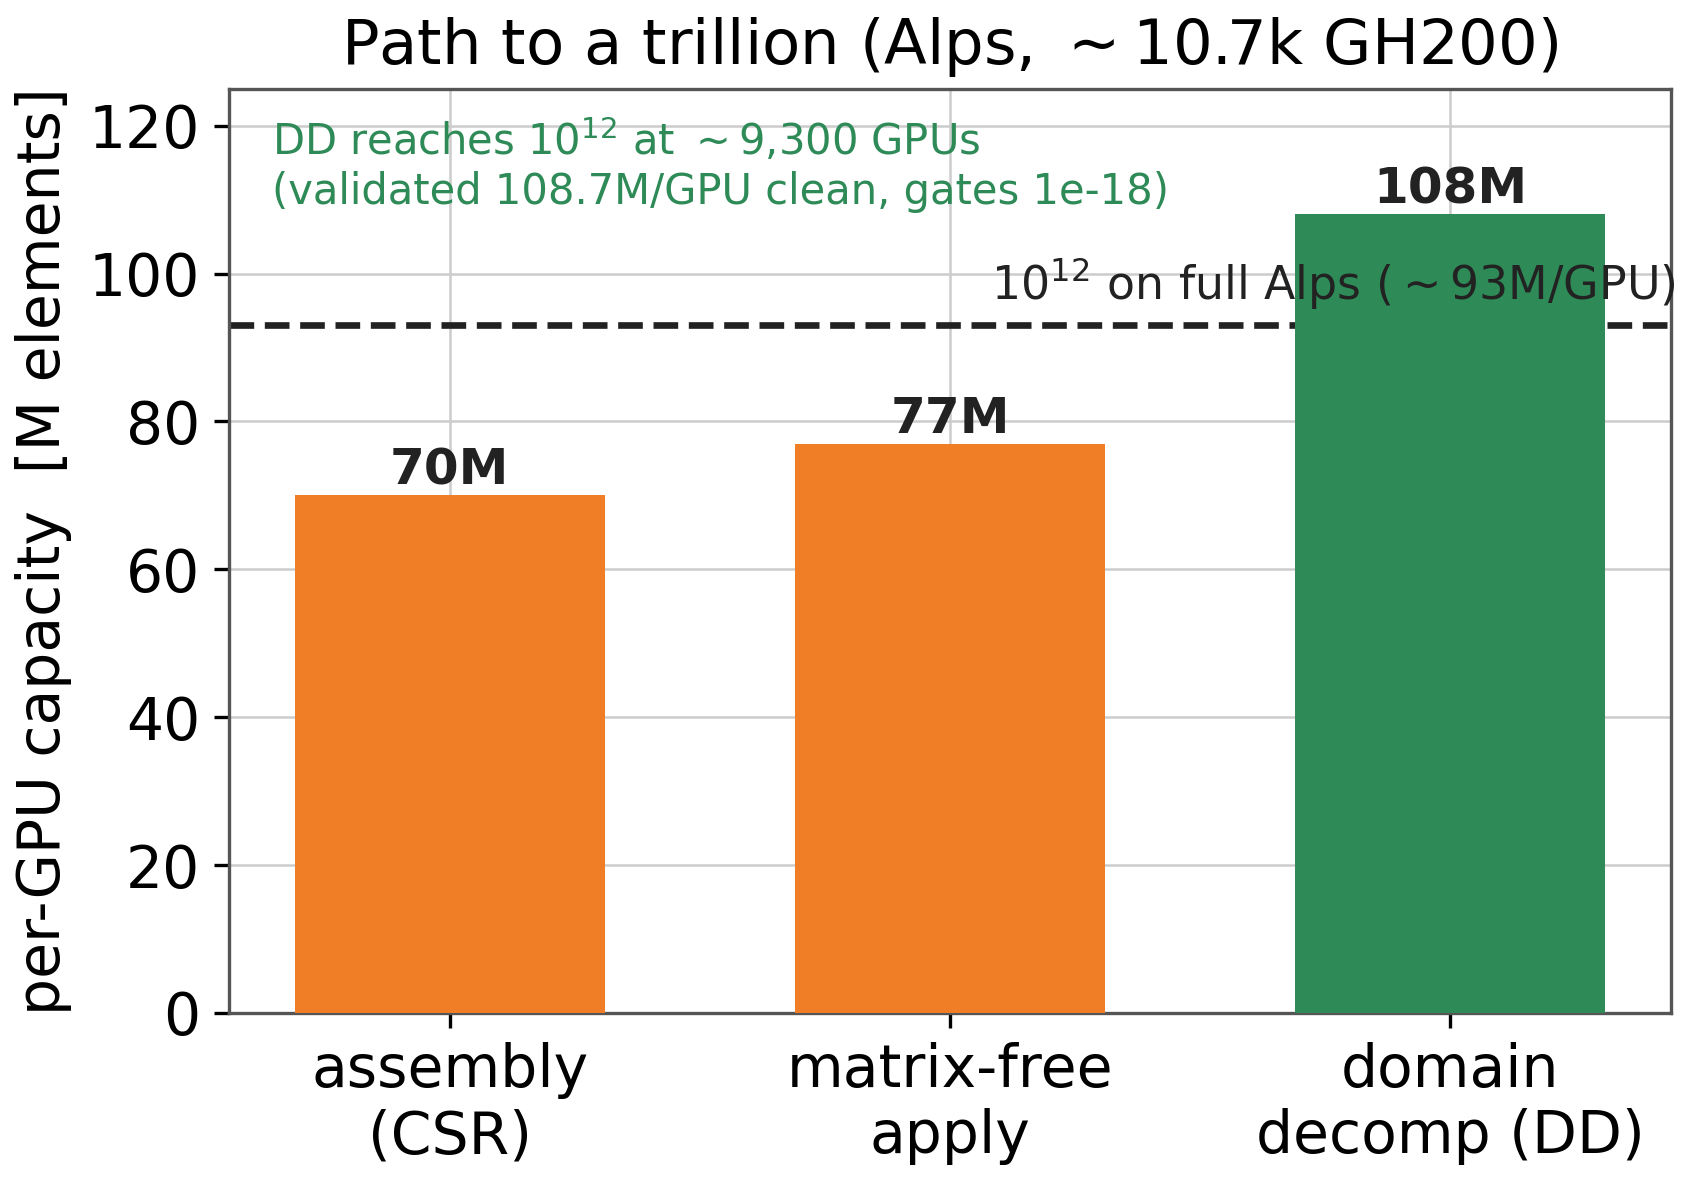
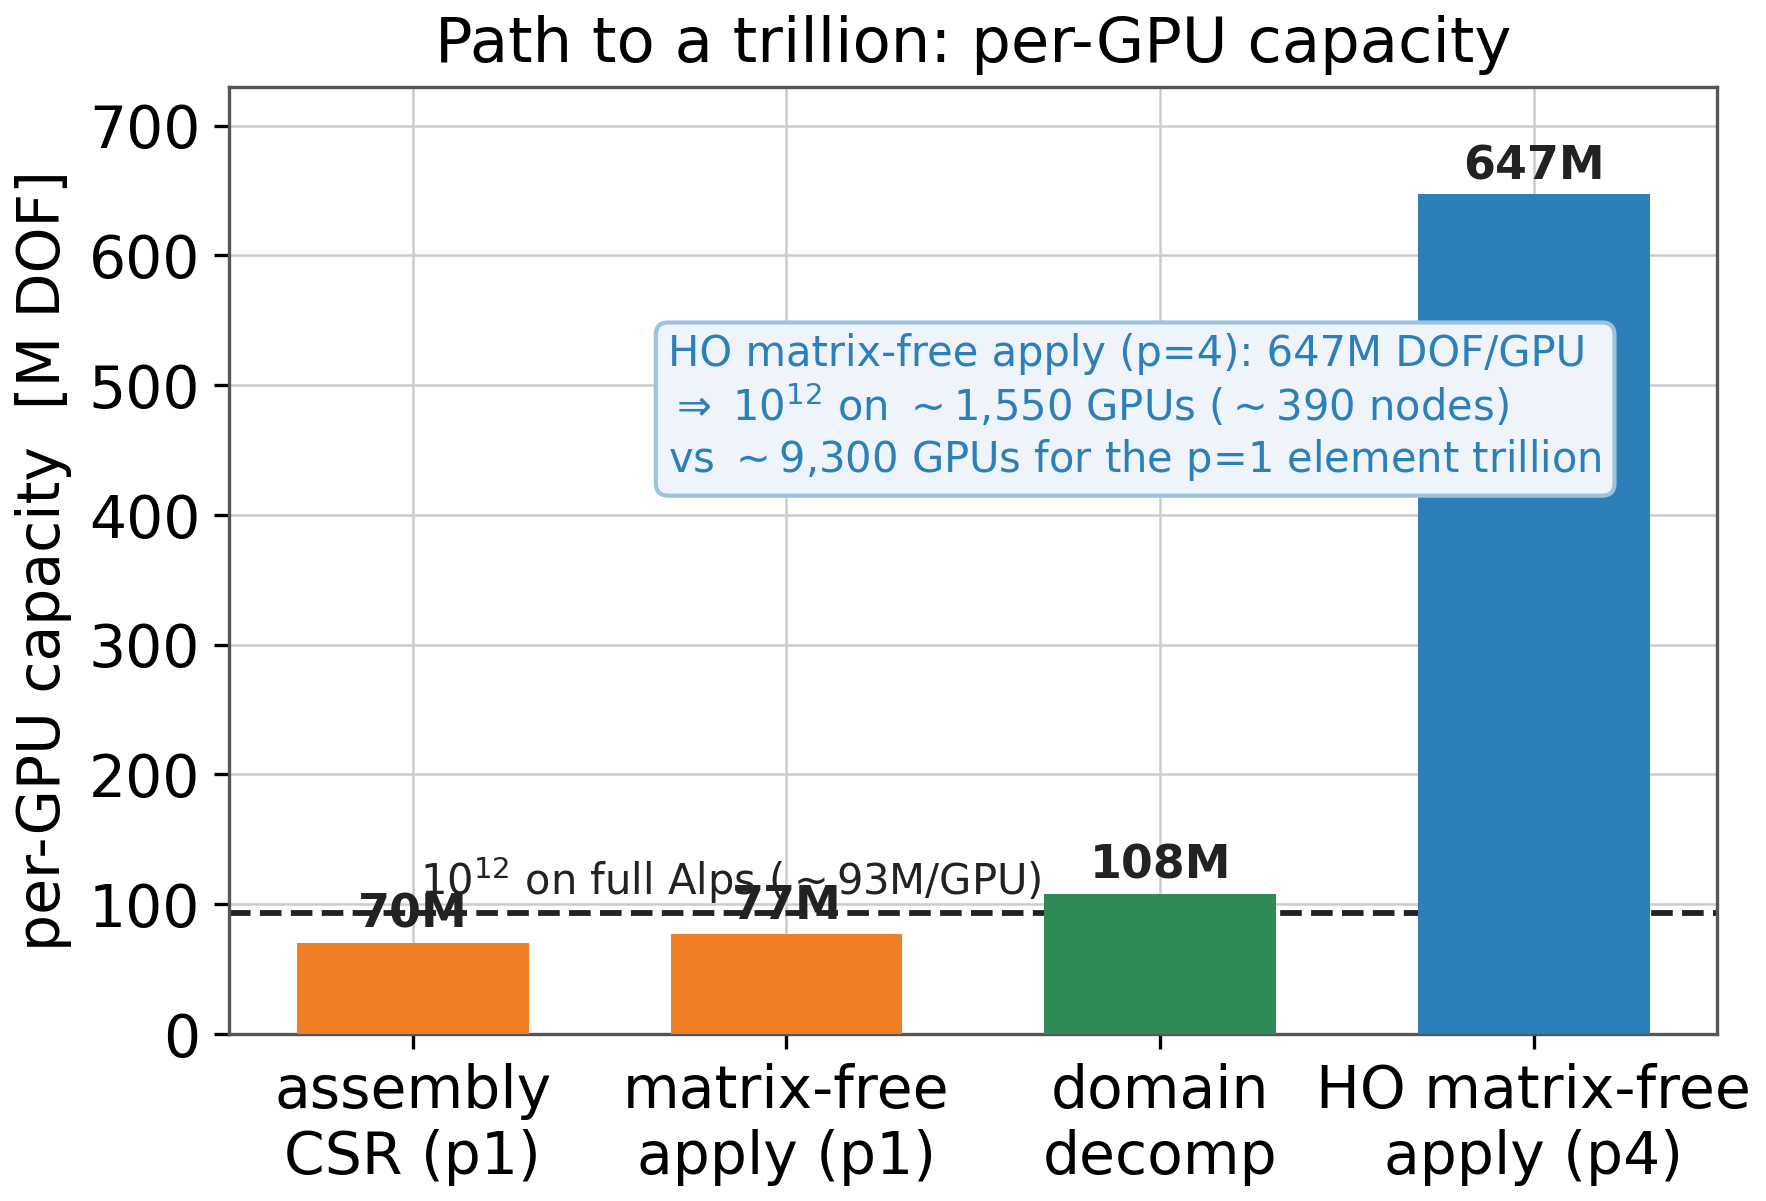
HO per-GPU ceiling 647M DOF/GPU (p=4, GH200) -> trillion HO DOF on ~1,550 GPUs (~390 nodes); fig_trillion + doc

diff --git a/docs/figures/make_matfree_figs.py b/docs/figures/make_matfree_figs.py
@@ -113,23 +113,25 @@ ax.set_title("Comm self-resolves with per-GPU size")
 ax.set_ylim(0, 70); ax.legend(frameon=False, loc="lower left")
 save(fig, "fig_comm_pergpu")
 
-# --- 6. path to a trillion: per-GPU capacity by mode vs the 1e12-on-Alps line ---
-modes  = ["assembly\n(CSR)", "matrix-free\napply", "domain\ndecomp (DD)"]
-ceil_M = [70, 77, 108]            # validated per-GPU ceilings (M elements/GPU)
+# --- 6. path to a trillion: per-GPU capacity by mode (incl. high-order matrix-free) ---
+modes  = ["assembly\nCSR (p1)", "matrix-free\napply (p1)", "domain\ndecomp", "HO matrix-free\napply (p4)"]
+ceil_M = [70, 77, 108, 647]       # validated per-GPU ceilings (M DOF/GPU; at p1 DOF~elements)
+colors = [ORANGE, ORANGE, GREEN, BLUE]
 alps_gpus = 10752                 # Alps GH200
-need_M = 1e12 / alps_gpus / 1e6   # per-GPU needed for 1e12 on full Alps (~93M)
-fig, ax = plt.subplots(figsize=(6.2, 4.0))
-bars = ax.bar(modes, ceil_M, color=[ORANGE, ORANGE, GREEN], width=0.62, zorder=3)
-ax.axhline(need_M, color=DARK, ls="--", lw=1.6, zorder=2)
-ax.text(2.45, need_M + 2, "10$^{12}$ on full Alps ($\\sim$%.0fM/GPU)" % need_M,
-        ha="right", va="bottom", color=DARK, fontsize=11)
+need_M = 1e12 / alps_gpus / 1e6   # ~93M DOF/GPU to fit 1e12 on full Alps
+fig, ax = plt.subplots(figsize=(6.4, 4.1))
+bars = ax.bar(modes, ceil_M, color=colors, width=0.62, zorder=3)
+ax.axhline(need_M, color=DARK, ls="--", lw=1.4, zorder=2)
+ax.text(0.02, need_M + 14, "10$^{12}$ on full Alps ($\\sim$93M/GPU)", color=DARK, fontsize=10)
 for b, v in zip(bars, ceil_M):
-    ax.text(b.get_x() + b.get_width()/2, v + 1.5, f"{v}M", ha="center",
-            color=DARK, fontsize=12, fontweight="bold")
-ax.set_ylabel("per-GPU capacity  [M elements]"); ax.set_ylim(0, 125)
-ax.set_title("Path to a trillion (Alps, $\\sim$10.7k GH200)")
-ax.text(0.03, 0.97, "DD reaches 10$^{12}$ at $\\sim$9,300 GPUs\n(validated 108.7M/GPU clean, gates 1e-18)",
-        transform=ax.transAxes, va="top", fontsize=10, color=GREEN)
+    ax.text(b.get_x() + b.get_width()/2, v + 12, f"{v}M", ha="center",
+            color=DARK, fontsize=11, fontweight="bold")
+ax.set_ylabel("per-GPU capacity  [M DOF]"); ax.set_ylim(0, 730)
+ax.set_title("Path to a trillion: per-GPU capacity")
+ax.text(0.295, 0.74,
+        "HO matrix-free apply (p=4): 647M DOF/GPU\n$\\Rightarrow$ 10$^{12}$ on $\\sim$1,550 GPUs ($\\sim$390 nodes)\nvs $\\sim$9,300 GPUs for the p=1 element trillion",
+        transform=ax.transAxes, va="top", fontsize=10, color=BLUE,
+        bbox=dict(boxstyle="round", fc="#EEF4FA", ec="#9CC3DE"))
 save(fig, "fig_trillion")
 
 # --- 7. distributed HIGH-ORDER operator: weak scaling + comm self-resolve (p=4, GH200) ---

diff --git a/docs/MATFREE_SCALING_ACHIEVEMENT.md b/docs/MATFREE_SCALING_ACHIEVEMENT.md
@@ -24,8 +24,12 @@ GPU-native high-order matrix-free CVFEM (Knaus Alg 2) on Alps GH200, cstone bran
   rate, so going distributed costs the operator nothing); full matvec 78% (blocking halo).
   **Comm self-resolves**: at 8 GPU, 4M→11M DOF/GPU cuts comm 22→15%, full-matvec 78→87%.
   90.5M DOF at p=4 on 8 GPUs, clean.
-- **Why it matters**: high-order is the trillion-DOF path that *fits* Alps — at p=4 the operator
-  carries ~1–2B DOF/GPU → ~500–1000 GPUs for 10¹² (vs ~9,300 for the p=1 element trillion).
+- **Per-GPU ceiling (measured, single GH200, p=4)**: apply dead-flat at ~6 GDOF/s from 135M to
+  **647M DOF/GPU clean** (cube216); 721M OOMs (per-point metric `d_G` ~7.2 KB/elem is the wall).
+- **Why it matters**: high-order is the trillion-DOF path that *fits* Alps. At the measured 647M
+  DOF/GPU, **10¹² DOF = ~1,550 GPUs (~390 nodes)** — under half the allocation, using the general
+  per-point metric (works for curved/pump meshes). The affine-cube metric (512× less `d_G`) would
+  push to ~1–2B DOF/GPU → ~500–1000 GPUs. (vs ~9,300 GPUs for the p=1 element trillion.)
 - Tests: `mars_ho_dist_dof_test.cu` (numbering+halo), `mars_ho_dist_apply_test.cu` (operator +
   device-halo timing). Figure: `docs/figures/fig_ho_scaling.png`.
 